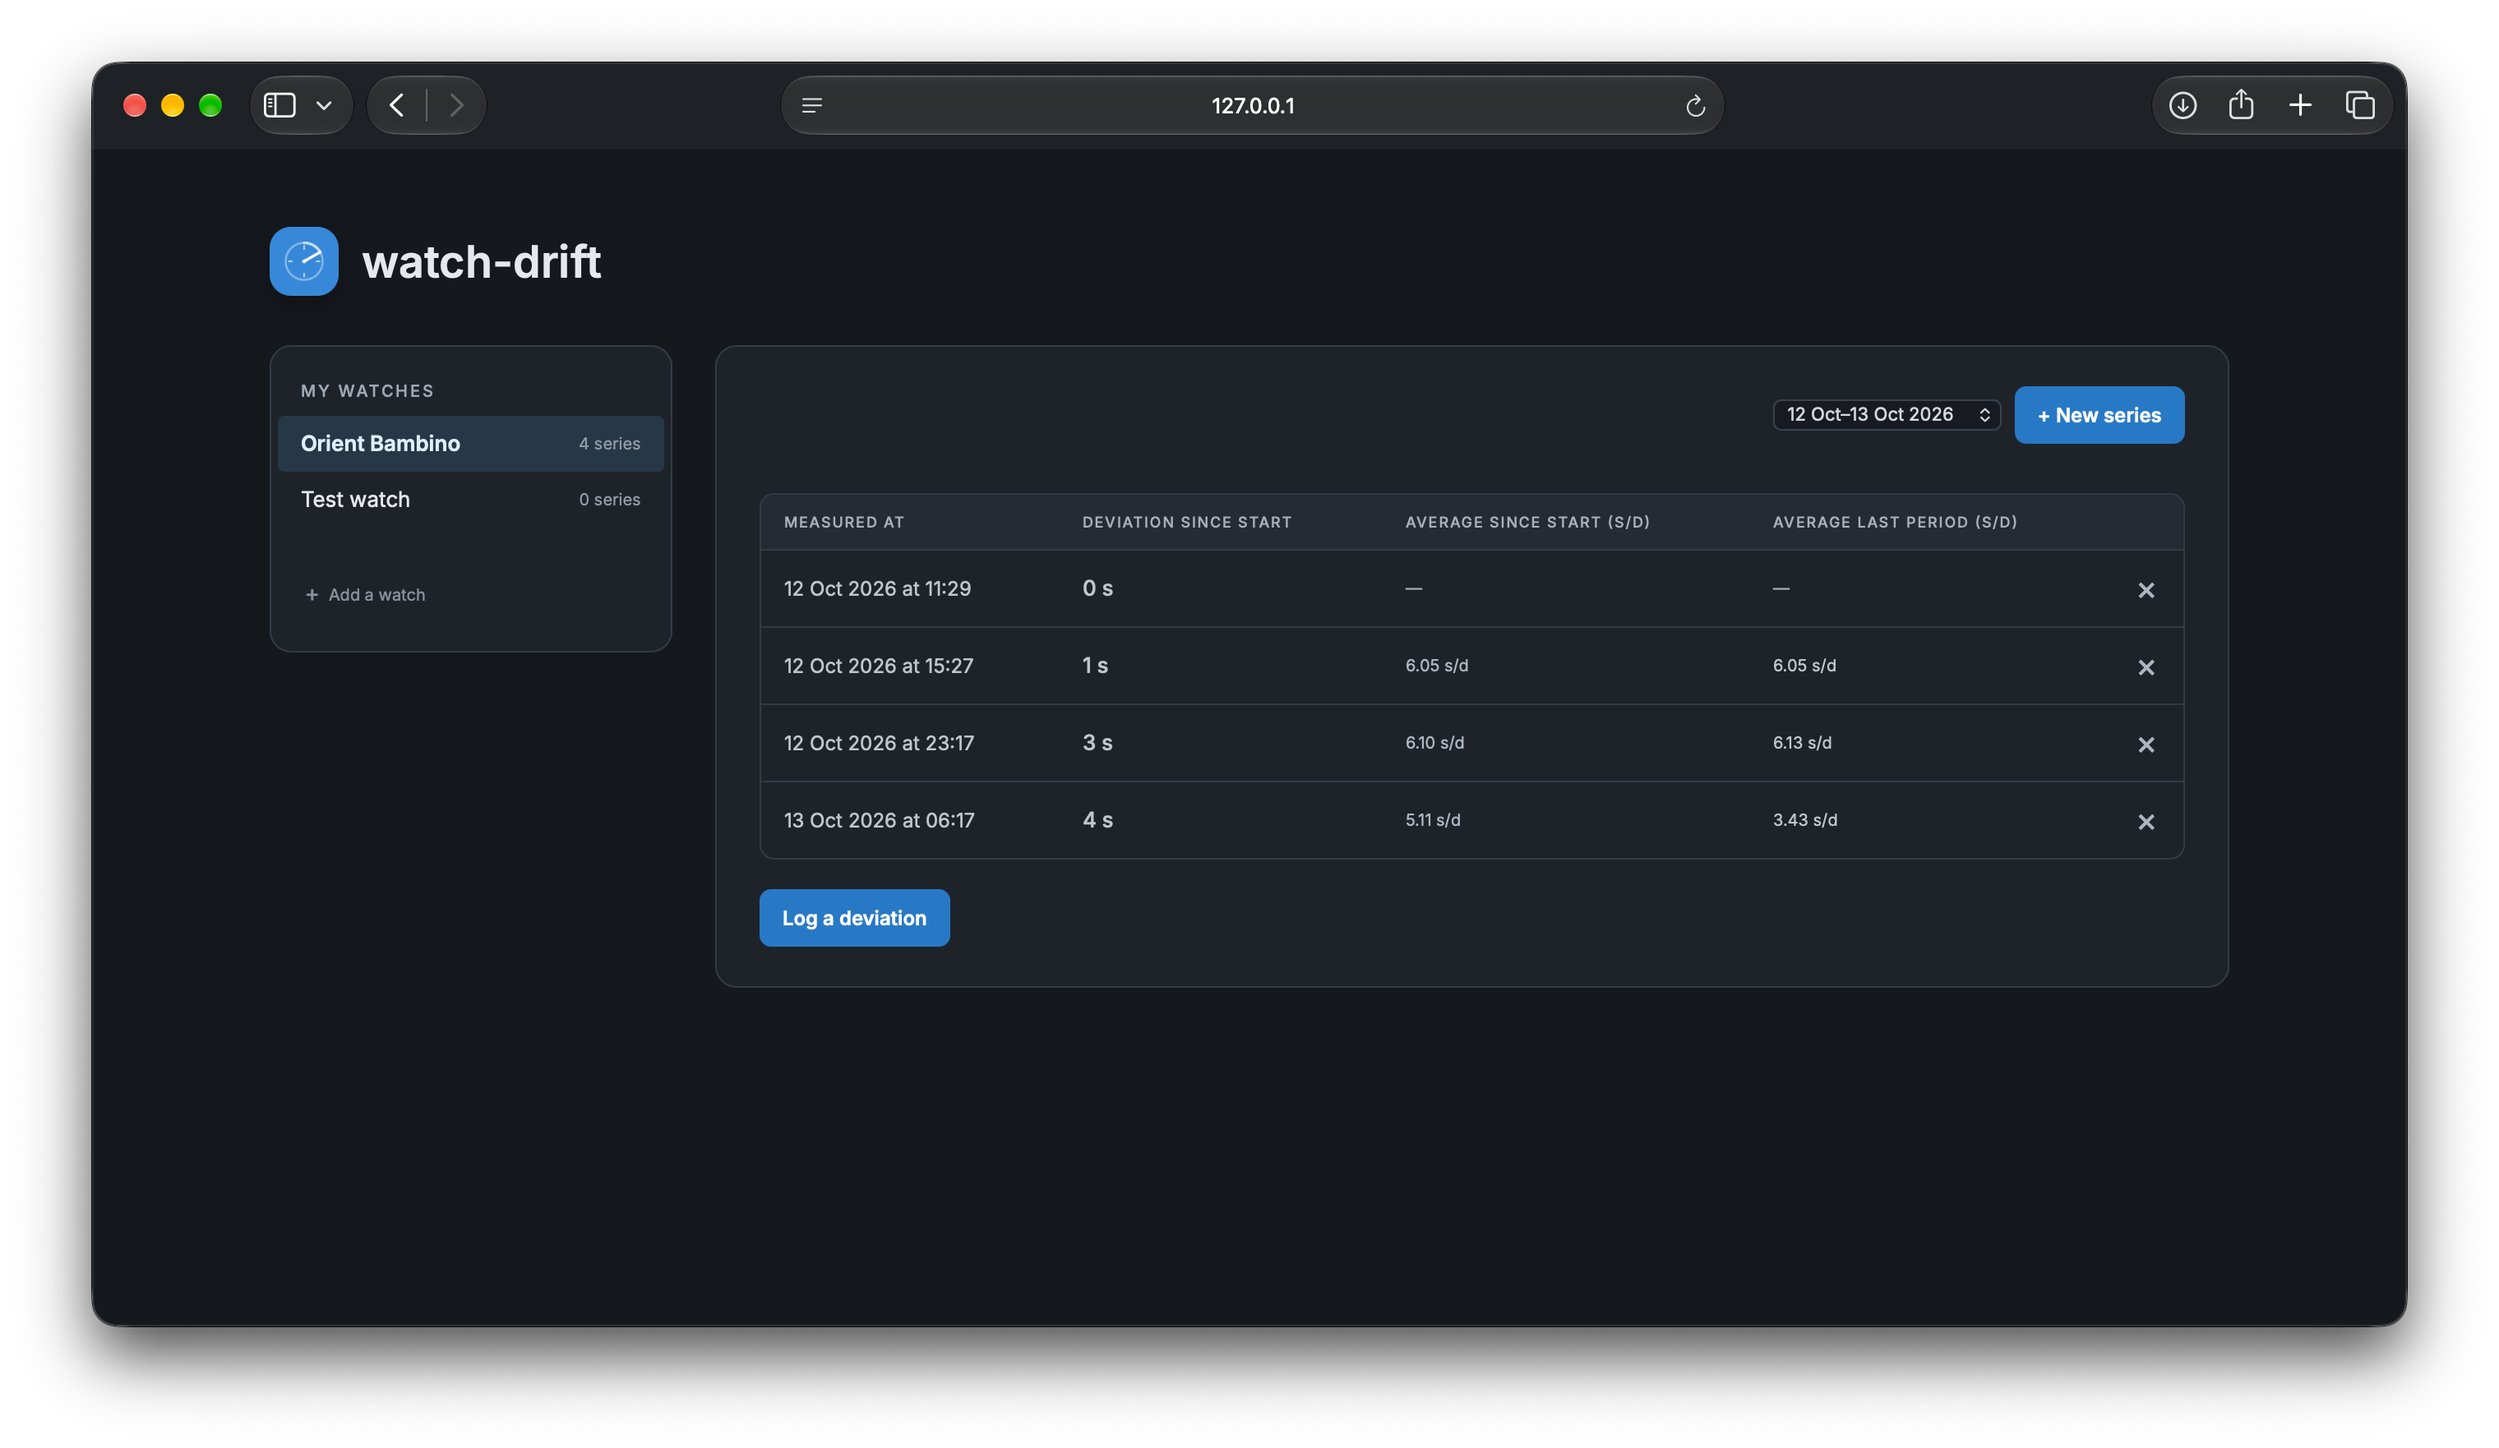
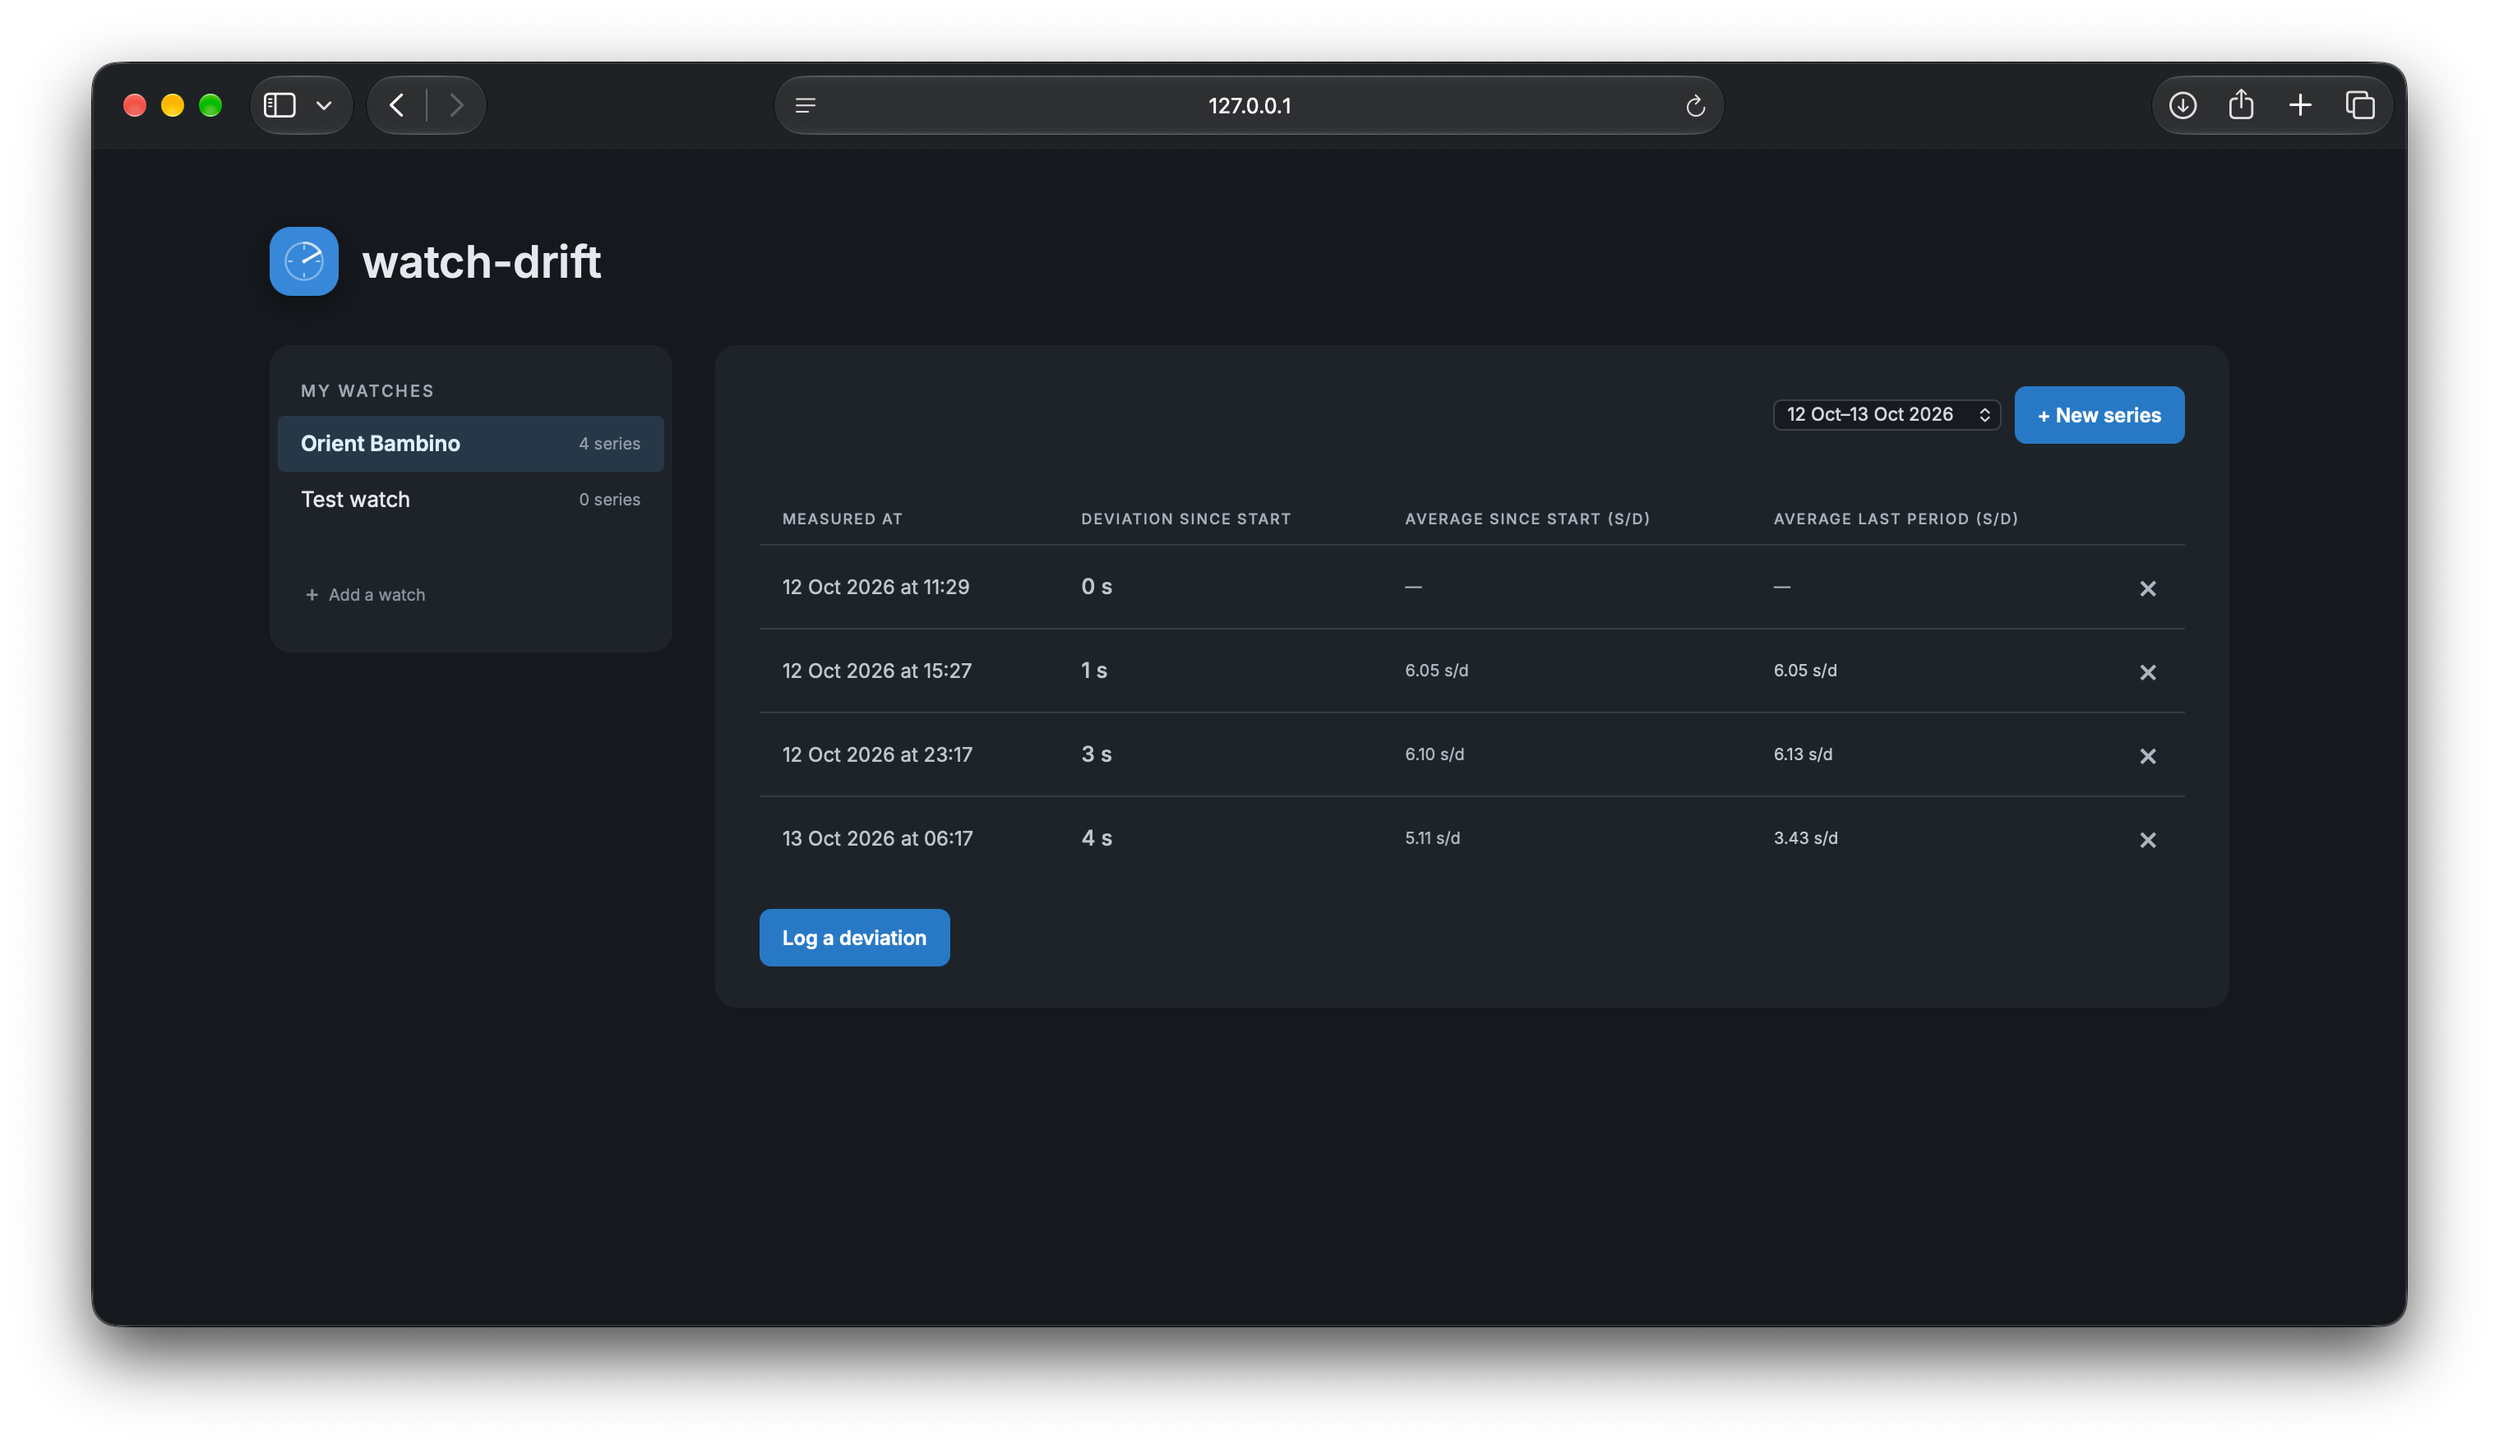
Simplify section and table styling

diff --git a/static/style.css b/static/style.css
@@ -139,3 +139,17 @@ input:focus,select:focus{border-color:#5790d0;box-shadow:0 0 0 3px #2574c71f}
 @media(prefers-color-scheme:dark){.watch-item.selected::before{background:#263747}}
 .page{max-width:1280px}
 td{padding-top:9px;padding-bottom:9px}
+
+/* Quiet table treatment */
+.table-wrap{border:0;border-radius:0;background:transparent;overflow-x:auto;overflow-y:hidden}
+table{border-collapse:collapse}
+th{background:transparent;border-bottom:1px solid var(--line);padding:10px 14px}
+td{border-top:0;border-bottom:1px solid var(--line);padding:11px 14px}
+tbody tr:last-child td{border-bottom:0}
+@media(prefers-color-scheme:dark){
+  .table-wrap{border-color:transparent;background:transparent}
+  th,td{border-color:#343b45}
+}
+
+/* Let section backgrounds define the layout without an outer frame. */
+.sidebar,.content{border-color:transparent}
